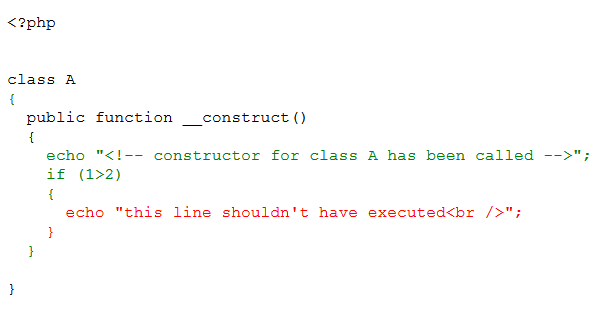
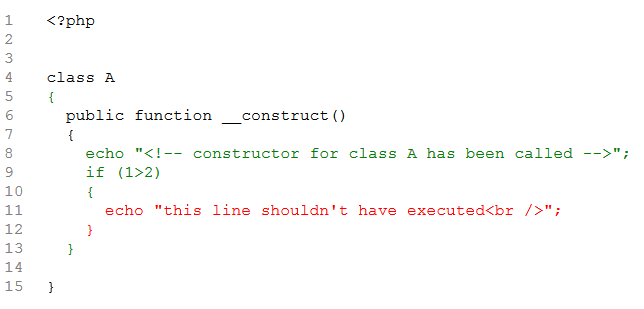
added line numbers to code coverage report file.

diff --git a/src/CodeCoverage/CodeCoverageFileReport.php b/src/CodeCoverage/CodeCoverageFileReport.php
@@ -126,26 +126,30 @@ class CodeCoverageFileReport
   public static function convertTextReportIntoHtml($fullFileName)
   {
     $htmlFileHeader = "
-        <html>
-          <head>
-            <title></title>
-            <style>
-              * { margin: 0; padding: 0;}
-              body {padding-left: 0.5em;}
-              .executedLine {color:green;}
-              .notExecutedLine {color: red;}
-              .uncreachableLine {color: #F68B2A;}
-            </style>
-          </head>
-          <body>
-            <pre>
+<!DOCTYPE HTML>
+<html>
+  <head>
+    <meta charset='UTF-8' />
+    <title>$fullFileName</title>
+    <style>
+      * { margin: 0; padding: 0;}
+      body {padding-left: 0.5em;}
+      .lineNumber {color: grey; display: inline-block; width: 2em;}
+      .executedLine {color:green;}
+      .notExecutedLine {color: red;}
+      .uncreachableLine {color: #F68B2A;}
+    </style>
+  </head>
+  <body>
+    <pre>
     ";
     $htmlFileFooter = "
-            </pre>
-          <body>
-        <html>
+    </pre>
+  </body>
+</html>
     ";
     
+    $htmlPrefixForLineNumber = '<span class="lineNumber">';
     $htmlPrefixForExecutedLine = '<span class="executedLine">';
     $htmlPrefixForNotExecutedLine = '<span class="notExecutedLine">';
     $htmlPrefixForUnreachableLine = '<span class="uncreachableLine">';
@@ -175,7 +179,8 @@ class CodeCoverageFileReport
         
         default    :  $htmlPrefix = $htmlPrefixForRegularLine;
       }
-      $htmlFileArray[] = $htmlPrefix . htmlspecialchars( substr($reportFileArray[$i], 2) ) . $htmlSuffix; 
+      $htmlFileArray[] = $htmlPrefixForLineNumber . ($i+1) . $htmlSuffix . " " . $htmlPrefix . 
+        htmlspecialchars( substr($reportFileArray[$i], 2) ) . $htmlSuffix;
     }
     $htmlFileArray[] = $htmlFileFooter;
     
